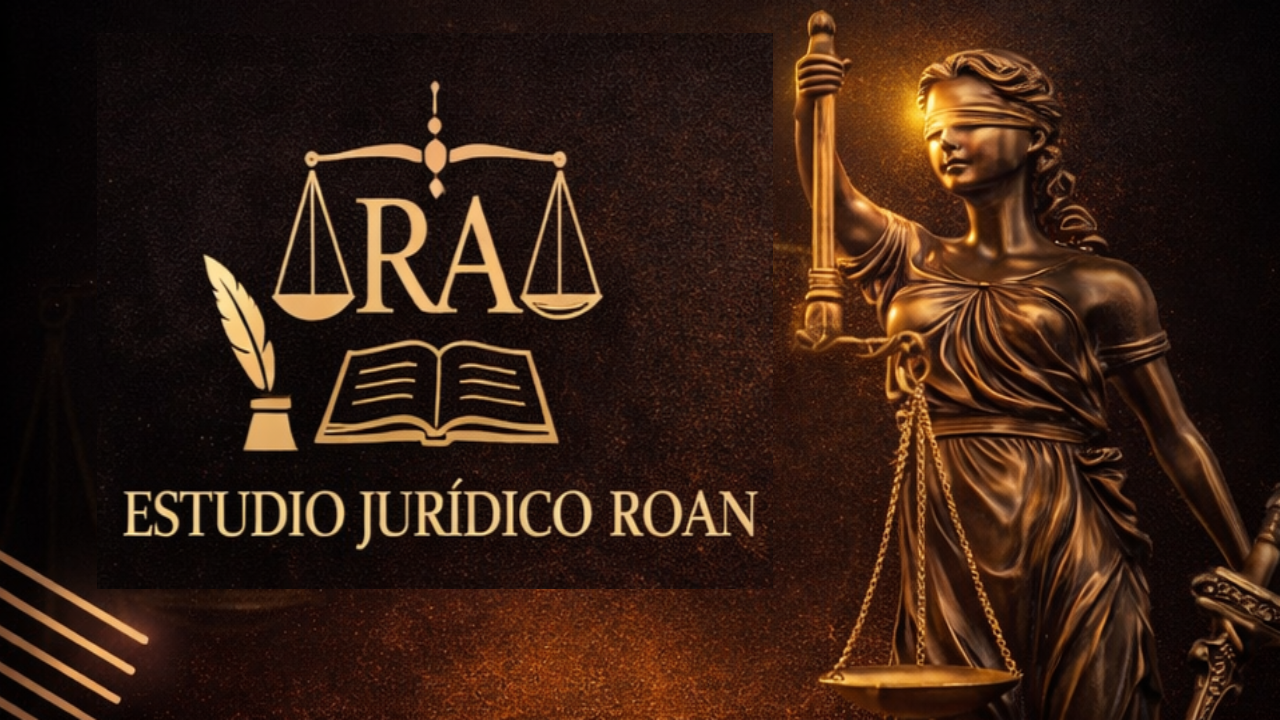
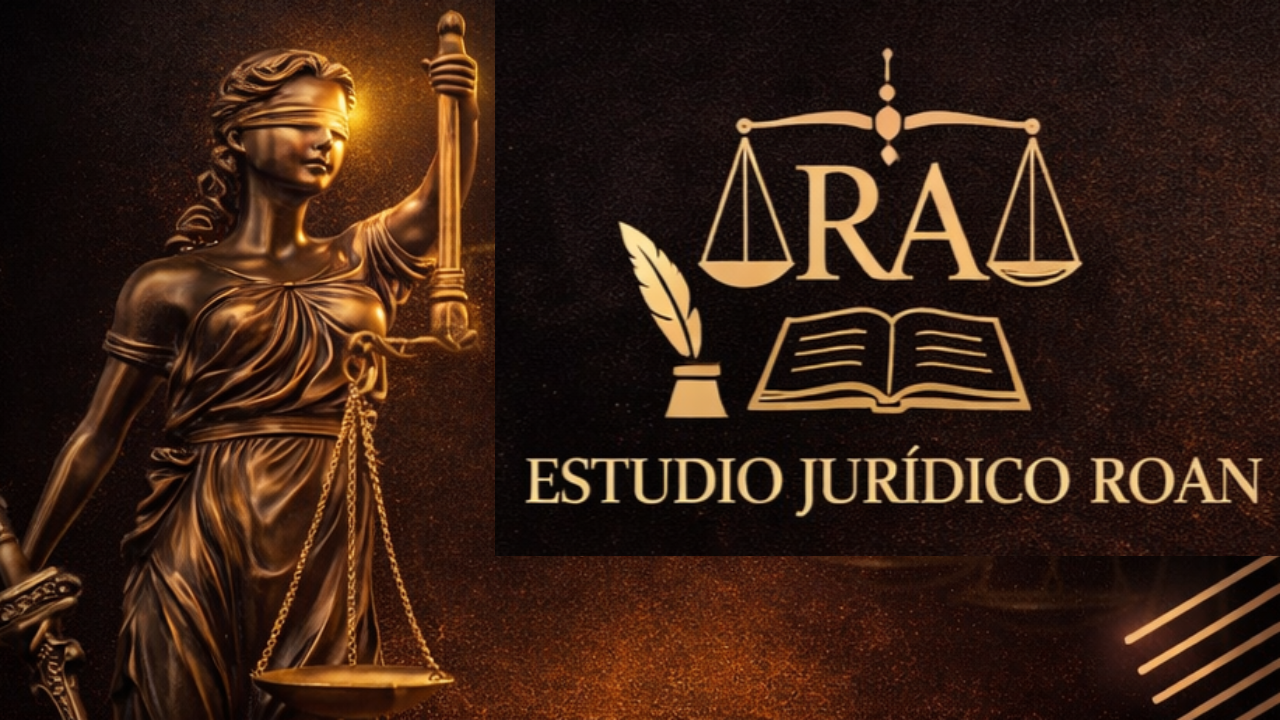
v1.2

diff --git a/css/style.css b/css/style.css
@@ -67,7 +67,7 @@ nav a:hover {
 .hero {
   position: relative;
   height: 100vh;
-  background: url("../img/hero.png") center / cover no-repeat;
+  background: url("../img/hero.png") center / contain no-repeat;
   display: flex;
   align-items: center;
   padding-left: 8%;
